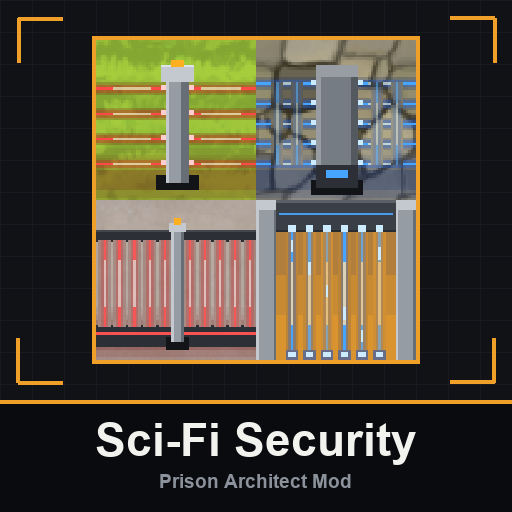
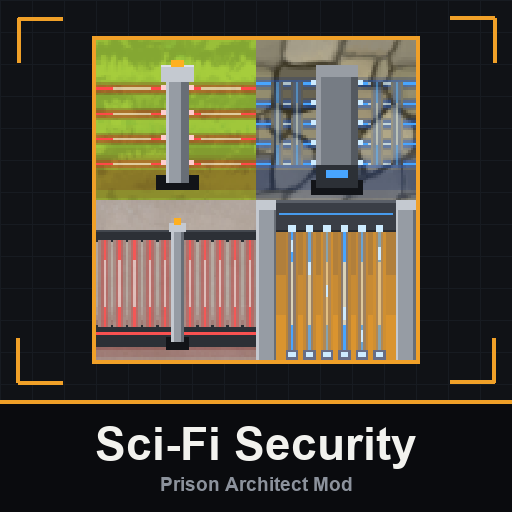
Set the card's name on one line whatever its length

Changed region(s): [[0.1875, 0.8125, 0.8125, 0.9688]]

diff --git a/tools/card.py b/tools/card.py
@@ -85,18 +85,22 @@ def face(size):
     return ImageFont.load_default(size)
 
 
-def text(label, size, colour, widest):
-    """A line of text, set smaller if it would run wider than widest."""
+def fitting(label, size, widest):
+    """The face to set a line in: smaller if it would run wider than widest."""
     probe = ImageDraw.Draw(Image.new("L", (1, 1)))
     while True:
         font = face(size)
-        left, top, right, bottom = probe.textbbox((0, 0), label, font=font)
+        left, _, right, _ = probe.textbbox((0, 0), label, font=font)
         if right - left <= widest or size <= 12:
-            break
+            return font
         size -= 2
-    line = Image.new("RGBA", (right - left + 4, bottom - top + 4), (0, 0, 0, 0))
-    ImageDraw.Draw(line).text((2 - left, 2 - top), label, font=font, fill=colour)
-    return line
+
+
+def line(draw, label, font, colour, middle):
+    """Sets a line so its capitals are centred on middle, whatever its size
+    and whether or not it has letters that hang below the line."""
+    _, top, _, bottom = font.getbbox("H", anchor="ls")
+    draw.text((SIZE // 2, middle + (bottom - top) // 2), label, font=font, fill=colour, anchor="ms")
 
 
 def brackets(draw):
@@ -123,10 +127,9 @@ def frame(art, name):
     brackets(draw)
     draw.rectangle([0, BAND_TOP, SIZE, SIZE], fill=BAND)
     draw.rectangle([0, BAND_TOP, SIZE, BAND_TOP + LINE - 1], fill=ACCENT)
-    title = text(name, TITLE_SIZE, TITLE, SIZE - 56)
-    card.alpha_composite(title, ((SIZE - title.width) // 2, BAND_TOP + 20))
-    sub = text(GAME, SUBTITLE_SIZE, SUBTITLE, SIZE - 56)
-    card.alpha_composite(sub, ((SIZE - sub.width) // 2, SIZE - 40))
+    draw = ImageDraw.Draw(card)
+    line(draw, name, fitting(name, TITLE_SIZE, SIZE - 56), TITLE, BAND_TOP + 44)
+    line(draw, GAME, fitting(GAME, SUBTITLE_SIZE, SIZE - 56), SUBTITLE, SIZE - 28)
     return card.convert("RGB")
 
 
